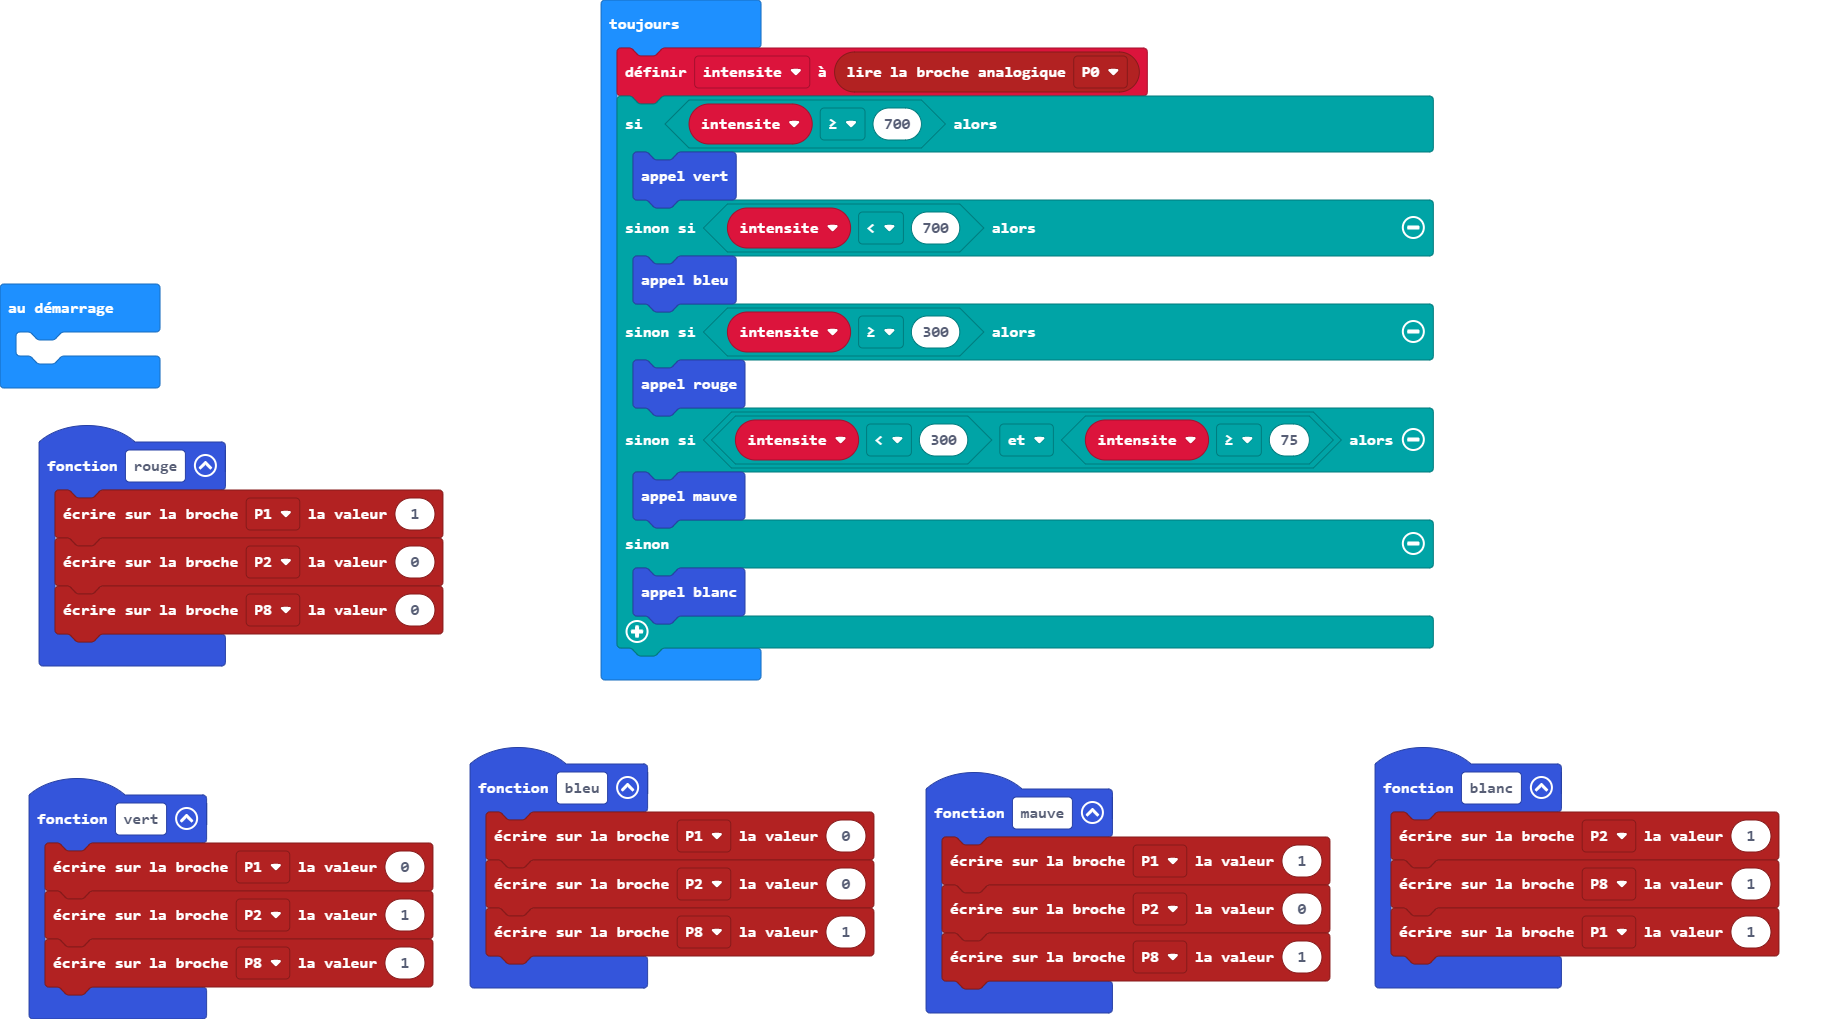
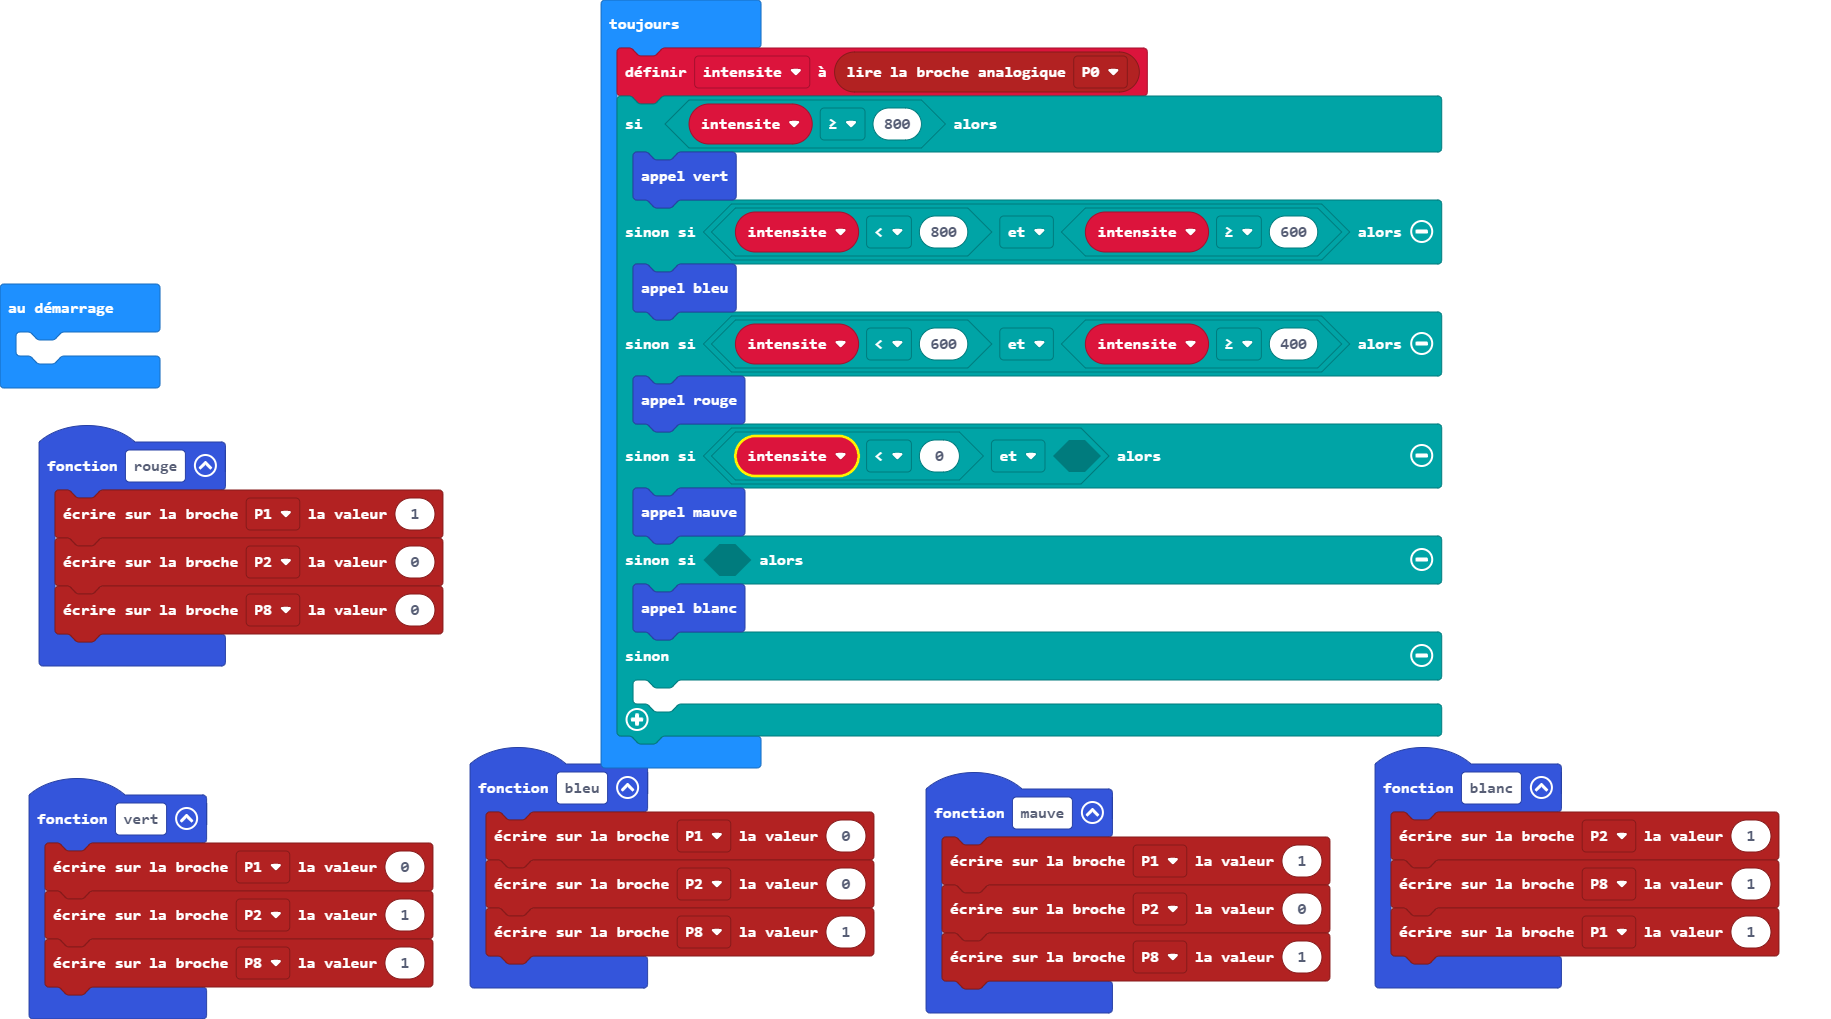
Mise à jour main.blocks, main.ts

Changed region(s): [[0.3113, 0.1825, 0.8094, 0.7605], [0.7783, 0.0913, 0.8094, 0.1521]]

diff --git a/main.ts b/main.ts
@@ -26,15 +26,17 @@ function vert () {
 }
 basic.forever(function () {
     intensite = pins.analogReadPin(AnalogPin.P0)
-    if (intensite >= 700) {
+    if (intensite >= 800) {
         vert()
-    } else if (intensite < 700) {
+    } else if (intensite < 800 && intensite >= 600) {
         bleu()
-    } else if (intensite >= 300) {
+    } else if (intensite < 600 && intensite >= 400) {
         rouge()
-    } else if (intensite < 300 && intensite >= 75) {
+    } else if (intensite < 0 && false) {
         mauve()
-    } else {
+    } else if (false) {
         blanc()
+    } else {
+    	
     }
 })
